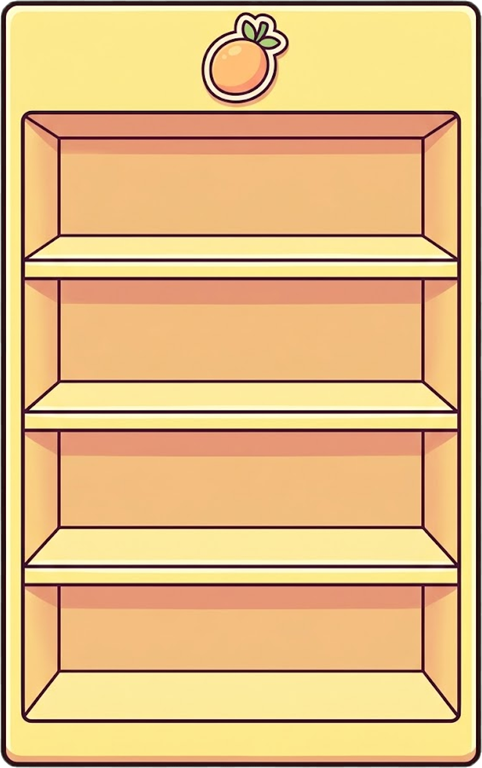
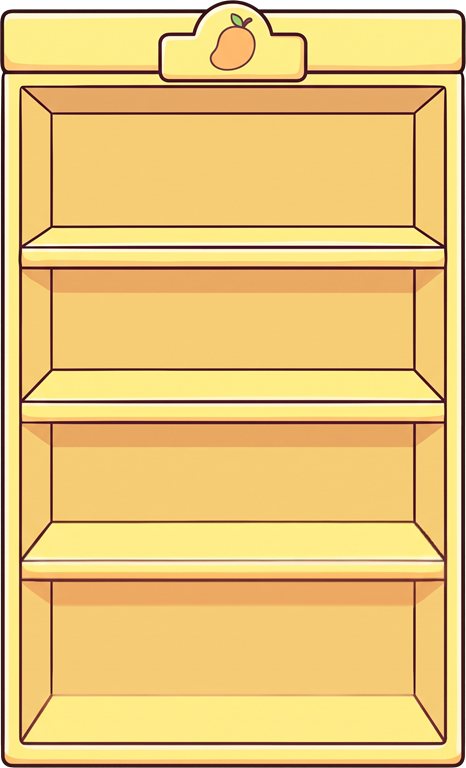
Kaunter Stor: gambar rak baharu (latar magenta dibuang); paras barang diselaraskan dengan papan rak sebenar (31.5/51.5/72.5/94.5%)

diff --git a/edurank.html b/edurank.html
@@ -8885,7 +8885,7 @@ function storRun(team){
   const root = document.createElement('div');
   root.className = 'st'; root.id = 'stRoot';
   /* rak berlapis: rak kosong (gambar/lukisan) → lapisan barang (#stL_<rak>) → label */
-  const ST_BOARD = [27, 49, 71, 93];                    // paras atas papan rak (% tinggi rak) — sama dengan prompt aset
+  const ST_BOARD = [31.5, 51.5, 72.5, 94.5];            // paras barang berdiri (% tinggi rak) — diukur dari gambar rak_jus semasa
   const shelfOf = id => ST_SHELVES.find(s => s[0] === id);
   const shelfSlots = id => ST_ITEMS.filter(i => i.sh === id).map(it => { const p = ST_SPOT[it.id];   // paras & tempat ikut ST_SHELF_ROWS
     return { it, lv: p.lv, x: 8 + 84 * (p.k + .5) / p.n, w: Math.min(28, 84 / p.n * (it.tg === 'j' ? .96 : .8)) }; });   // tin bahan jus dibesarkan sedikit   // saiz ikut rujukan, tidak menutup papan tanda rak
